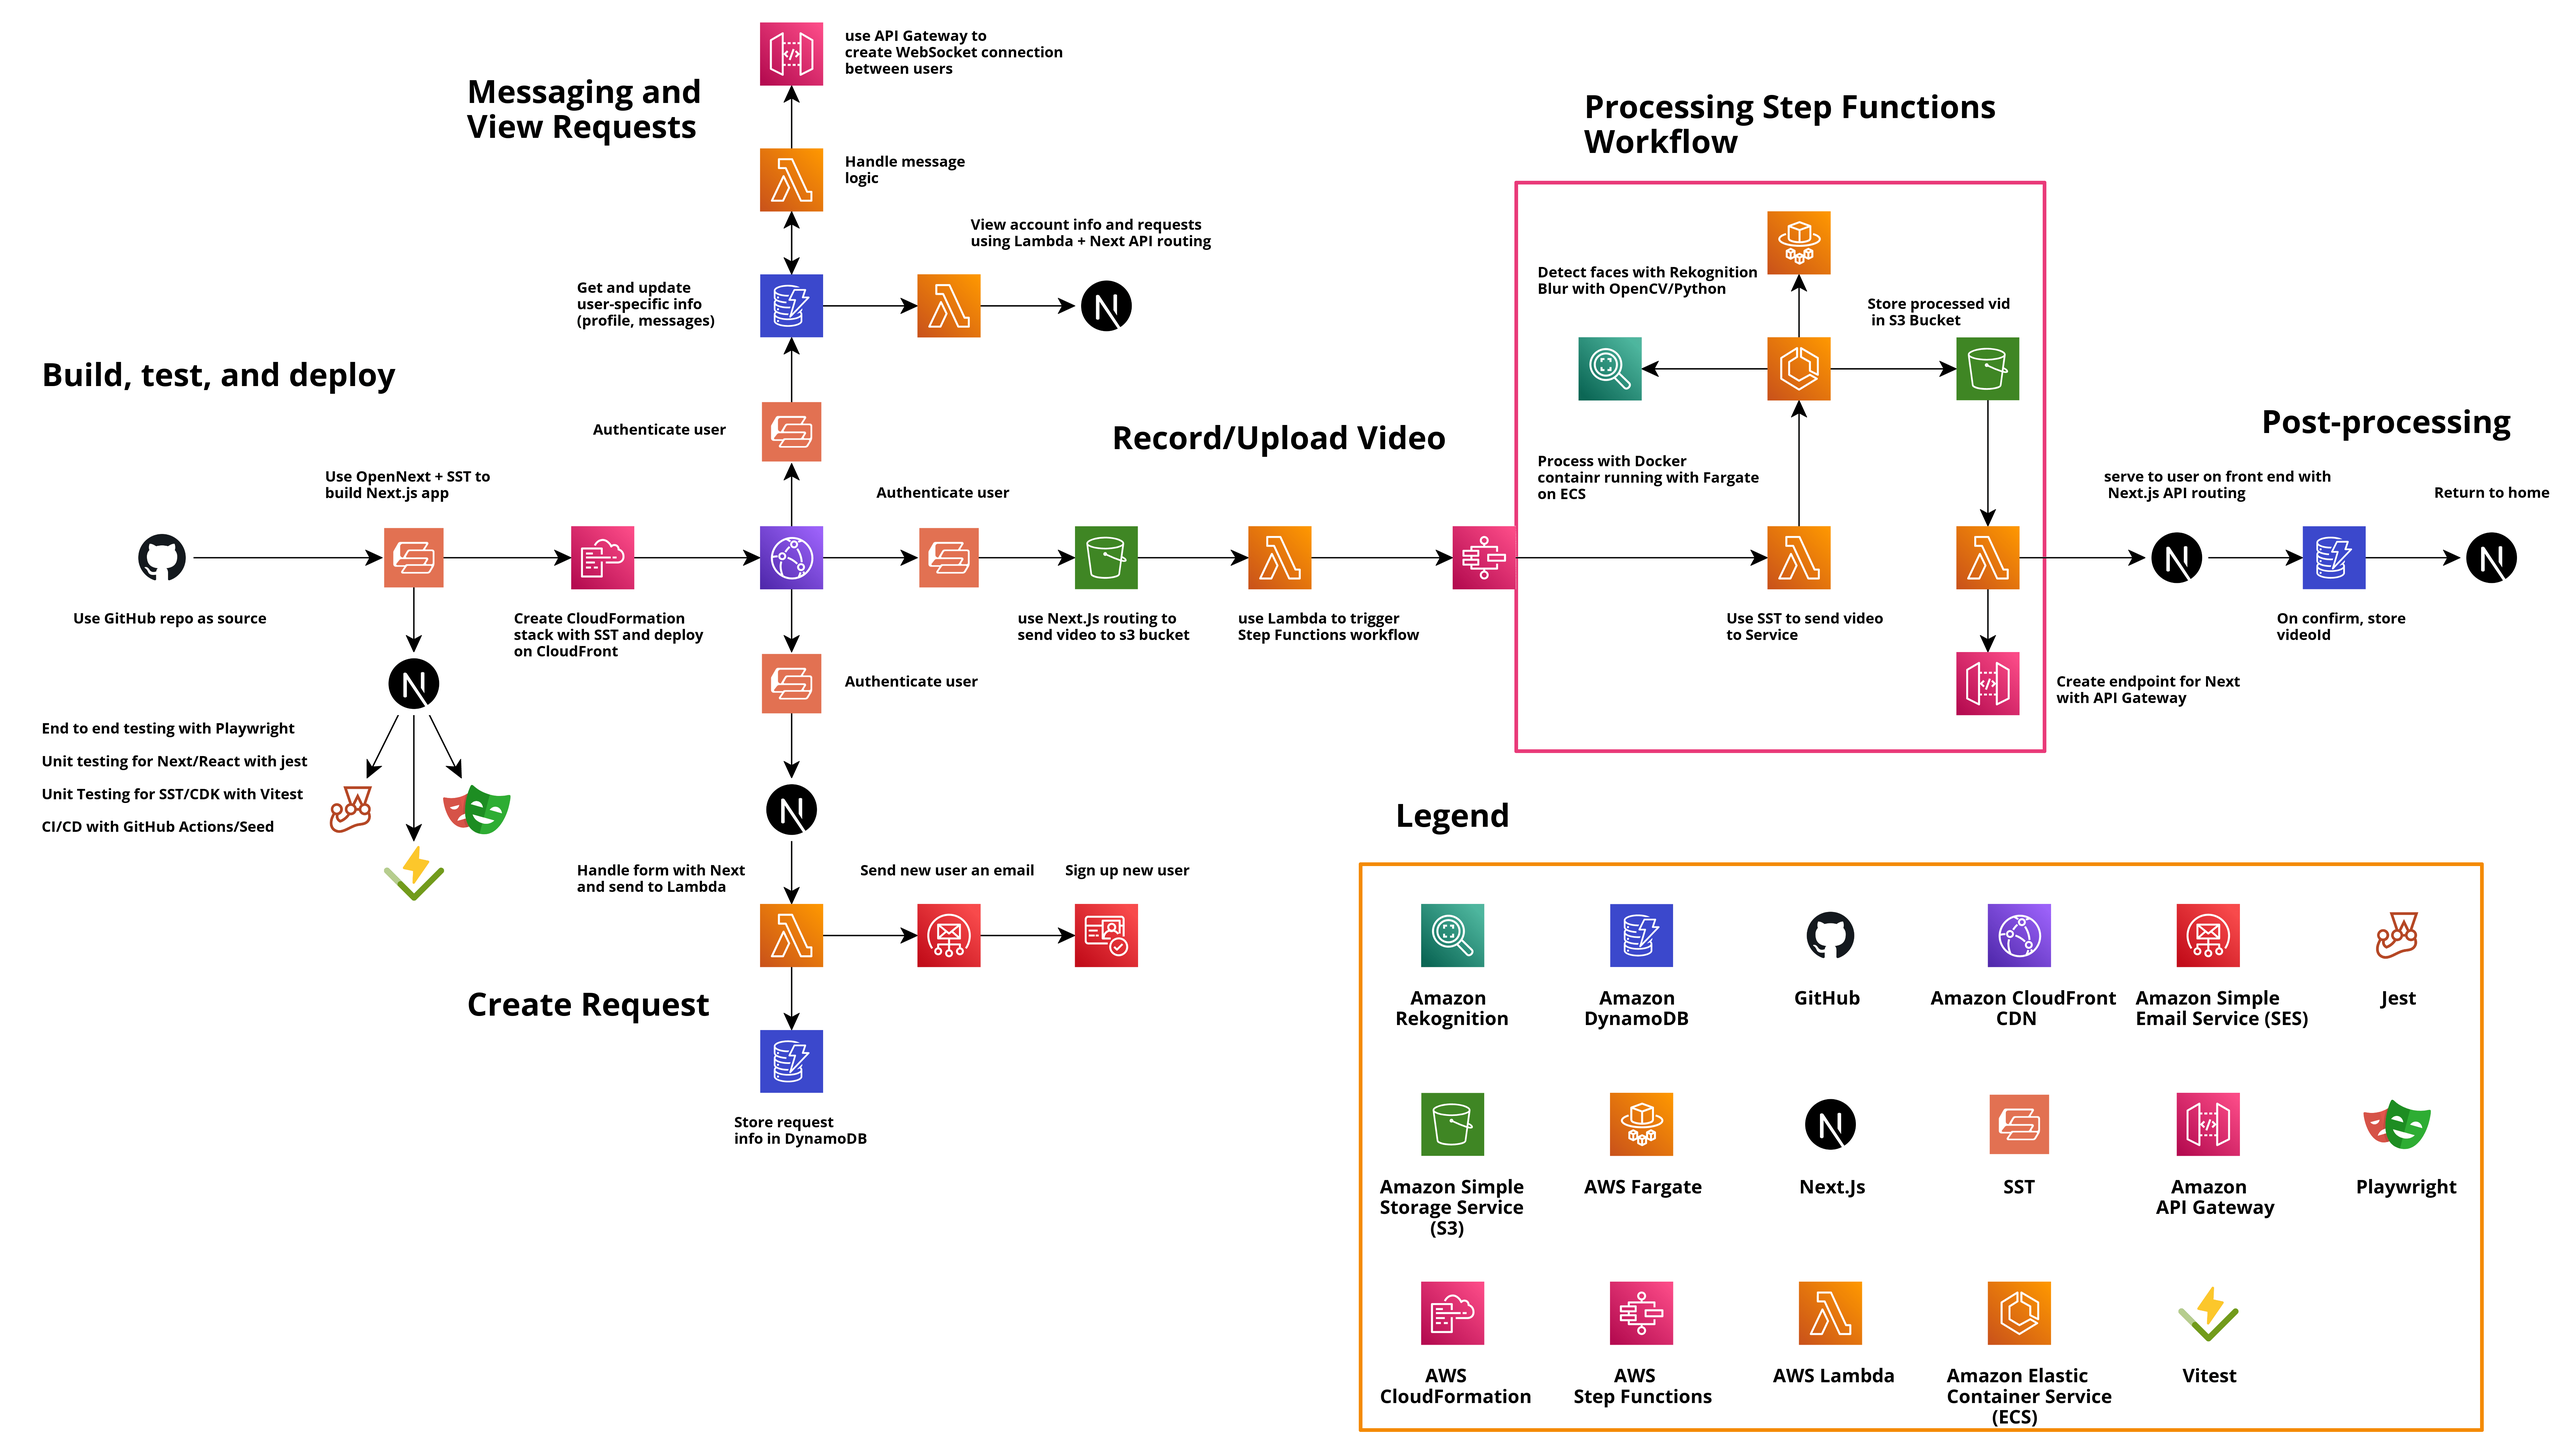
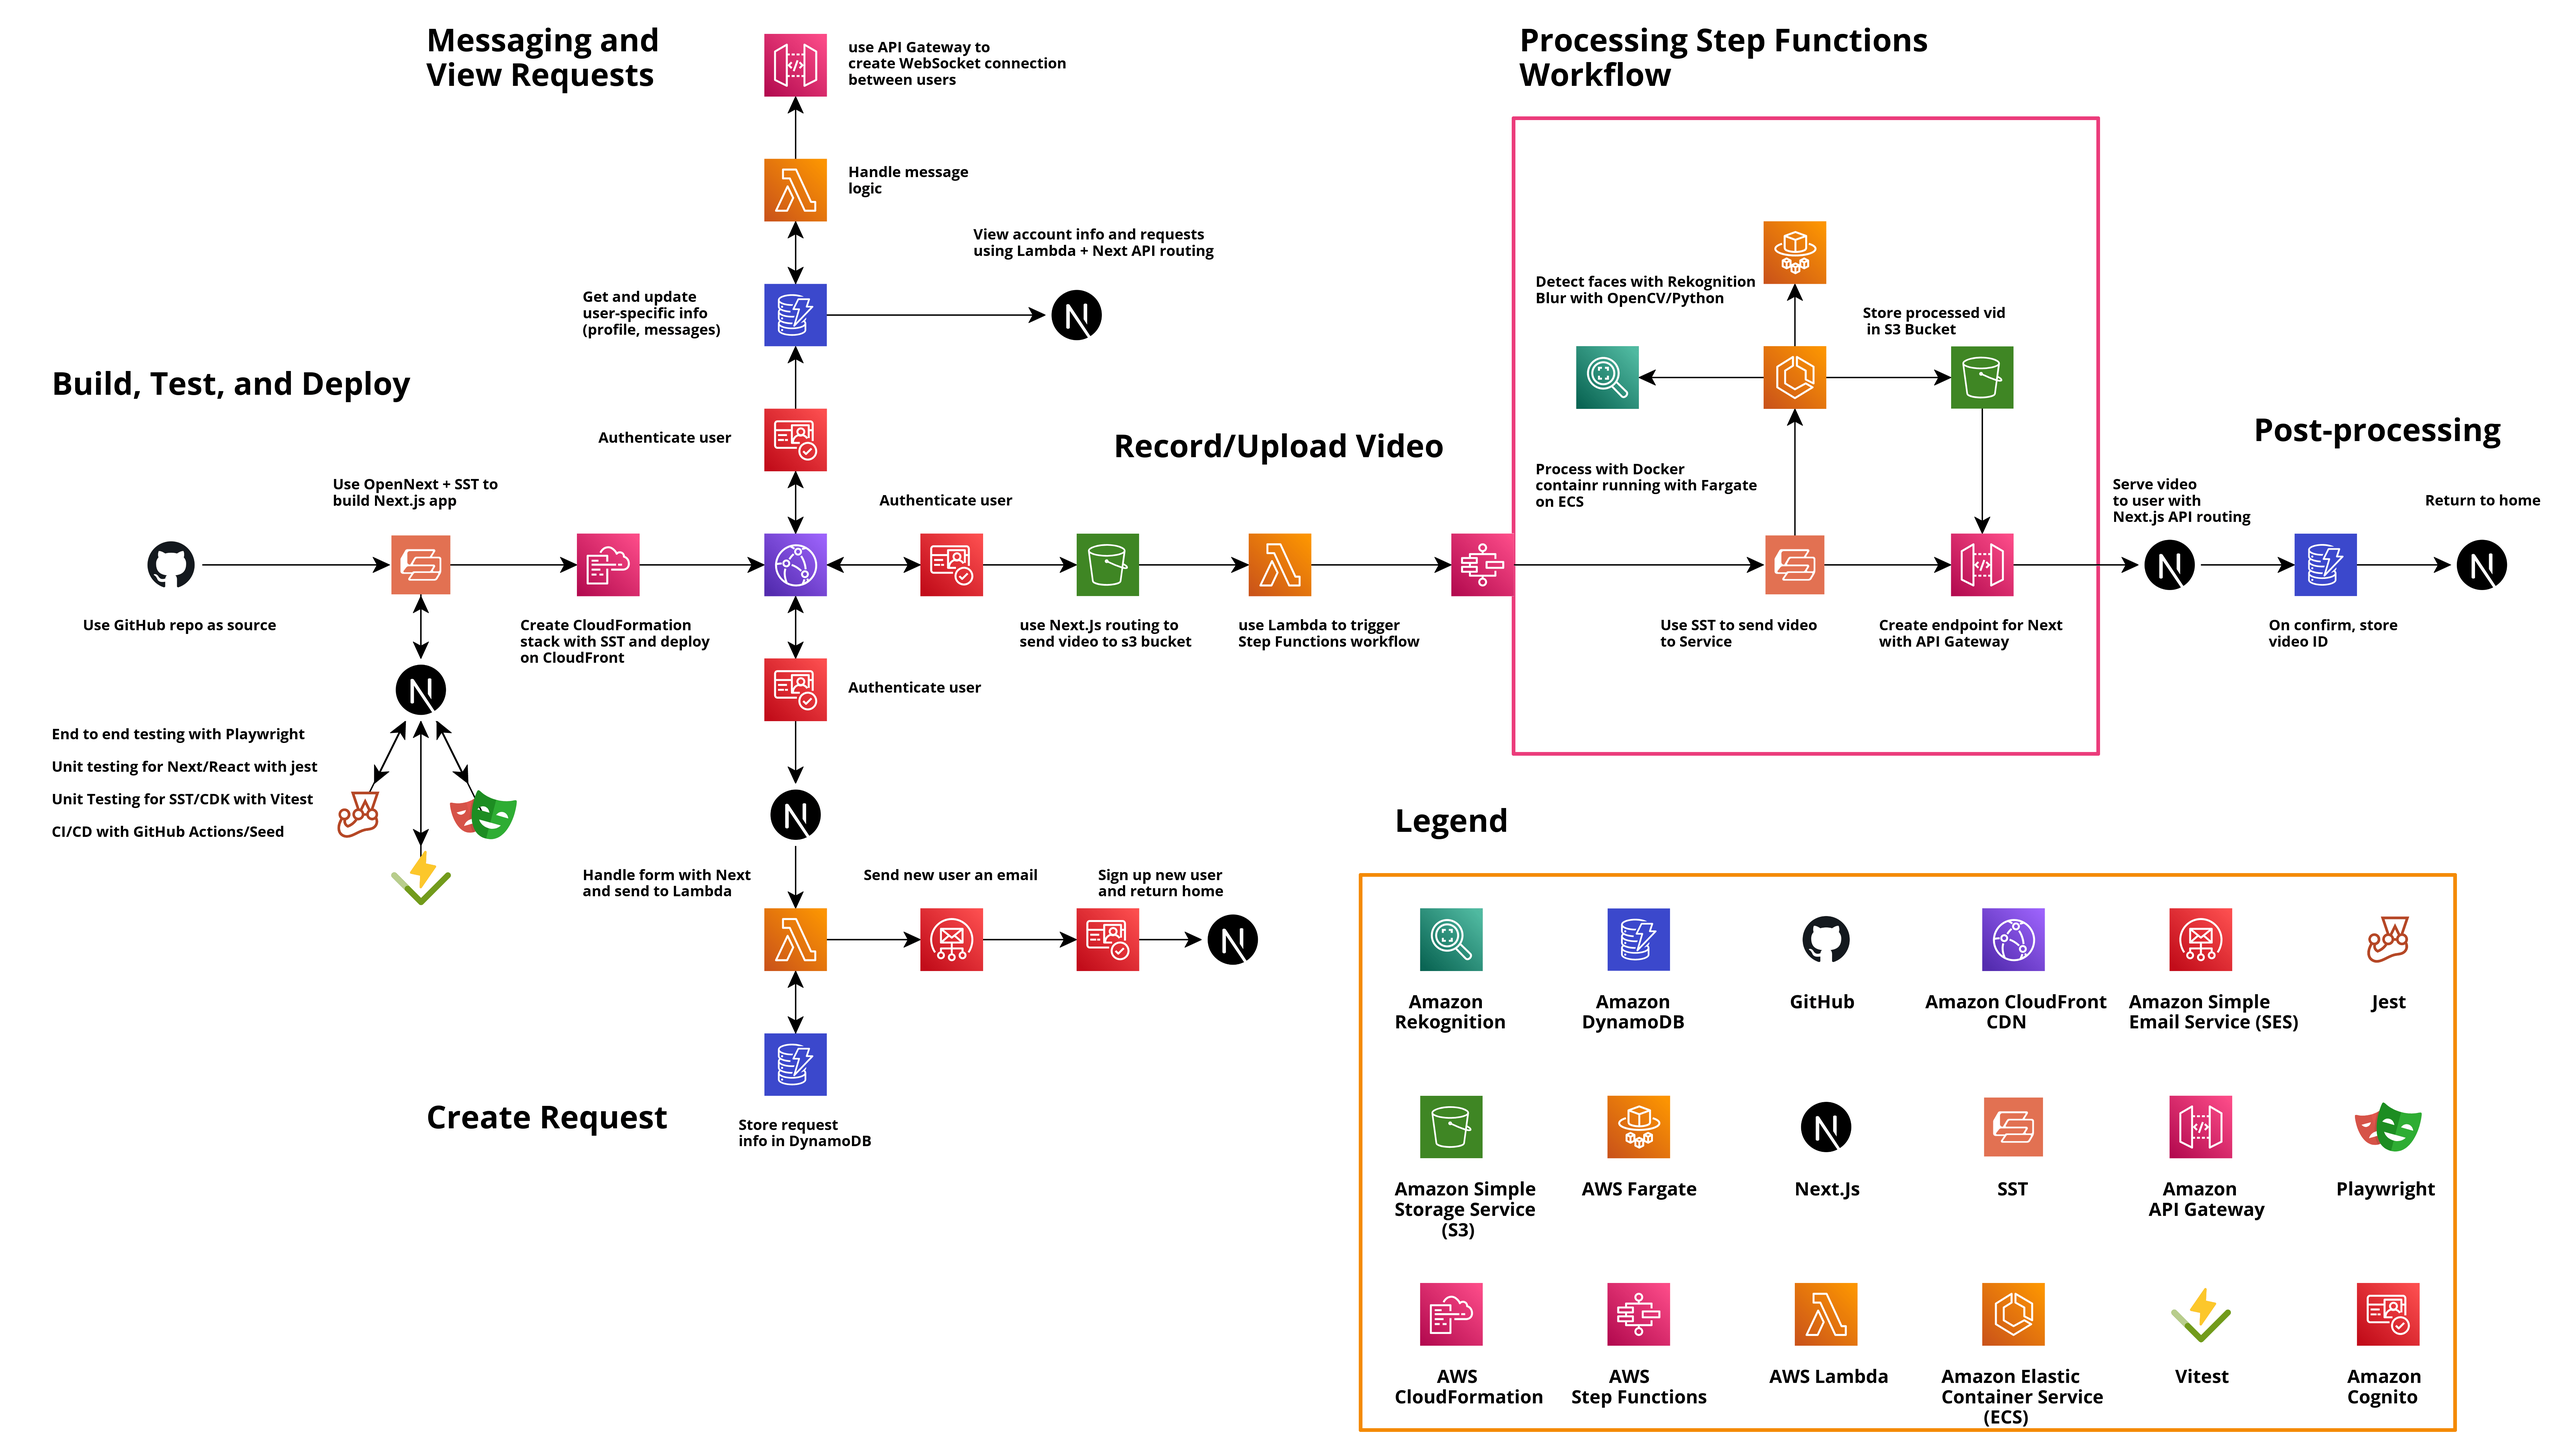
work on sys arch

diff --git a/docs/design-submission/design-document.md b/docs/design-submission/design-document.md
@@ -33,7 +33,67 @@
 
 ## System Architecture
 
+### System Architecture Diagram
+
 ![System Architecture Diagram](img/system-architecture.png)
+
+### System Architecture Description
+
+------
+
+The system architecture we selected for this project is serverless. This means the system is run by using various AWS managed services and does not require the maintenance of servers. 
+
+The key frameworks we are using for our app are **Next.js** and **Tailwind CSS** for the front-end, and **SST** for the back-end:
+
+#### Next.js
+
+------------------
+
+[Next.js](https://nextjs.org/) is a React framework with server-side functionality. We chose Next.js for the following reasons:
+- Next.js is a great framework for building React apps because it allows us to build a React app with server-side functionality and API routing.
+- Next.js enables us to hybrid sites, allowing us to have both static and server-side rendered pages.
+- Thanks to SST's OpenNext Next.js adatper, we are able to get the full functionality of Next.js while still being able to deploy our app on AWS instead of Vercel.
+- The API routing functionality of Next.js allows us to easily create API endpoints for our app and allow our front-end to communicate with our back-end services.
+
+#### TailwindCSS
+
+------------------
+
+[TailwindCSS](https://tailwindcss.com/) is a utility-first CSS framework that allows us to build custom designs without having to write custom CSS. We chose TailwindCSS for the following reasons:
+- TailwindCSS allows us to write CSS directly in our React JSX, which is preferable for maintainability and readability.
+- Tailwind has many useful utility classes that enable rapid development, with the ability to easily customize the design.
+- We used [shadcn's UI library](https://ui.shadcn.com/) for TailwindCSS, granting us access to beautiful components that we can use to build our app.
+
+#### SST
+
+------------------
+
+[SST](https://sst.dev/) is an open-source framework for AWS that allows us to easily integrate our Next.js app with the various AWS services. We chose SST for the following reasons:
+- SST is a wrapper for the AWS CDK, which allows us to create AWS infrastructure with code, and it provides various abstractions that make it easier to use than the CDK.
+- SST is open-source and has a great community, which means we can easily find help if we run into issues. 
+- They place a strong emphasis on developer experience, which means we can easily get started with SST and learn how to use it.
+- SST allows us to easily deploy our app to AWS, and provides a local development environment for us to test our Lambda functions locally.
+- SST, through OpenNext, allows us to deploy our Next.js app directly to AWS with full functionality, instead of having to deploy to Vercel, which is the default deployment method for Next.js apps.
+
+
+#### AWS Services
+
+------------------
+
+
+SST provides a wrapper for the AWS CDK, which allows us to create AWS infrastructure with code, so we can easily create the AWS services we need for our app without losing the ability to customize the underlying CDK.
+
+The AWS services we are using for our app are as follows:
+- **Lambda**: We are using Lambda to run our back-end code. We are using Lambda functions to handle API requests, and to handle the logic for our app. [SST provides a wrapper construct for Lambda functions](https://docs.sst.dev/constructs/Function).
+- **DynamoDB**: We are using DynamoDB as our database. We are using DynamoDB to store our user data, as well as our data for our app. [SST provides a wrapper construct for DynamoDB](https://docs.sst.dev/constructs/Table).
+- **Cognito**: We are using Cognito to handle user authentication. We are using Cognito to handle user sign-up, sign-in, and sign-out. However, we intend to switch to SST's own Auth service, which is free, open-source and stateless.
+- **S3**: We are using S3 to store our app's static assets. We are using S3 to store our app's images, as well as our app's CSS and JS files. SST provides the Bucket construct for S3 which makes it easier to use while still allowing for the customization of the underlying CDK.
+- **API Gateway**: We are using API Gateway to handle API requests. We are using API Gateway to route API requests to our Lambda functions. SST provides a wrapper for API Gateway that makes it easier to use.
+- **CloudFront**: We are using CloudFront to serve our app's static assets. We are using CloudFront to serve our app's images, as well as our app's CSS and JS files. This is managed by SST.
+- **Route 53**: We are using Route 53 to handle our app's domain name. We are using Route 53 to route our app's domain name to our app's CloudFront distribution.
+- **CloudWatch**: We are using CloudWatch to handle our app's logging. We are using CloudWatch to log our app's API requests, as well as our app's Lambda function invocations. This is managed by SST.
+- **IAM**: We are using IAM to handle our app's permissions. We are using IAM to grant our app's Lambda functions permission to access our app's DynamoDB tables. This is managed by SST.
+
 
 ## Database Design
 
